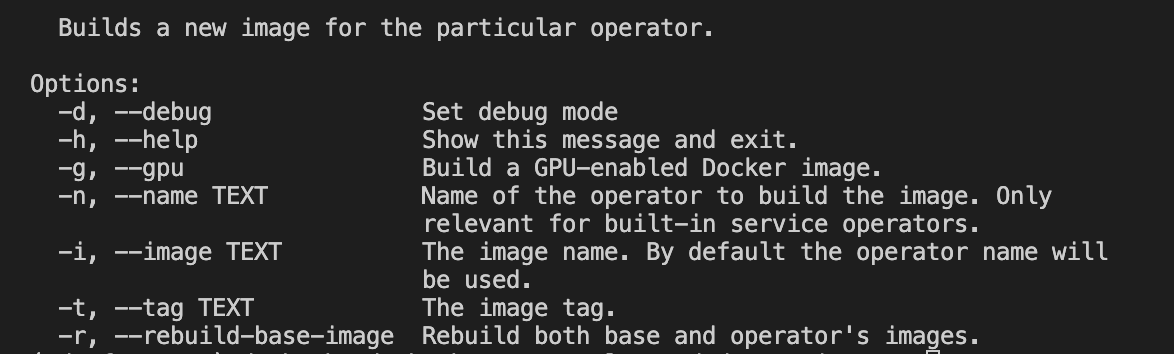
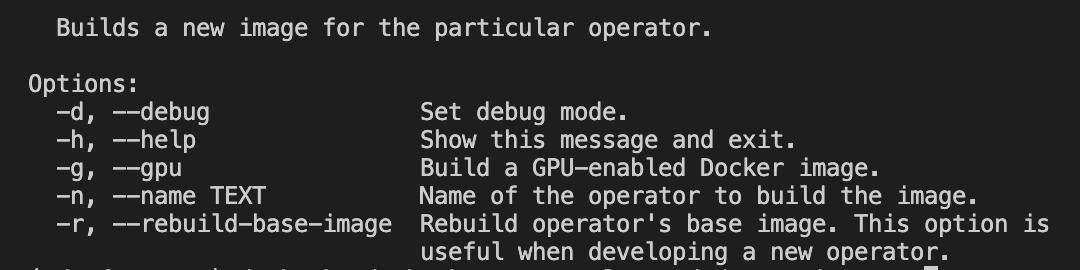
Improves the docs to add the publish conda for operators.

Changed region(s): [[0.0, 0.2074, 0.9778, 1.0], [0.0306, 0.0296, 0.6417, 0.1481]]

diff --git a/docs/source/user_guide/operators/common/explore.rst b/docs/source/user_guide/operators/common/explore.rst
@@ -38,6 +38,8 @@ This command provides a concise overview of all available commands.
 
 - ``ads opctl operator build-conda``: Build a new Conda environment tailored to a particular operator using this command.
 
+- ``ads opctl operator publish-conda``: Publish the operator's Conda environment to the Object Storage bucket with this command.
+
 - ``ads opctl operator build-image``: Create a new image customized for the operator using this command.
 
 - ``ads opctl operator publish-image``: Publish the operator's image to the container registry with this command.
@@ -172,7 +174,11 @@ In order to run an operator within a local container or utilize it with the OCI 
 .. figure:: figures/build_operator_image.png
    :align: center
 
-The fundamental attribute you need to provide is ``--name``, which represents the name of the operator. If you do not specify ``--image`` and ``--tag``, the operator's name and version will be automatically used as the image name and tag.
+The fundamental attribute you need to provide is ``--name``, which represents the name of the operator. The operator's name and version will be automatically used as the image name and tag.
+
+.. code-block:: bash
+
+   ads opctl operator build-image --name <operator-name>
 
 An interesting point to note is that the operator's container can be built to accommodate both CPU and GPU architectures, although this capability depends on the specific operator's requirements.
 
@@ -195,7 +201,7 @@ The only mandatory parameter for this command is the image name that you wish to
 
 .. code-block:: bash
 
-   ads opctl operator publish-image <operator-name>:v1
+   ads opctl operator publish-image --name <operator-name>
 
 While the image name is the only required parameter, you also have the option to provide the ``registry`` parameter if needed. By default, the information about the registry where the container should be published is retrieved from the ADS config generated during the :doc:`Configure Defaults<../../cli/opctl/configure>` step.
 
@@ -232,12 +238,15 @@ To make a locally built Conda environment available in the OCI Object Storage bu
 
 .. code-block:: bash
 
-   ads opctl conda publish <operator-name>_<operator-version>
+   ads opctl operator publish-conda --help
 
-For instance, if you have constructed a Conda environment for the "forecast" operator, the command would appear as follows:
+.. figure:: figures/publish_operator_conda.png
+   :align: center
+
+For instance, if you have constructed a Conda environment for the specific operator, the command would appear as follows:
 
 .. code-block:: bash
 
-   ads opctl conda publish forecast_v1
+   ads opctl operator publish-conda --name <operator-name>
 
 Publishing the Conda environment to OCI Object Storage enables the OCI Data Science Jobs and Data Flow services to access and utilize this environment efficiently. This step is essential to ensure that your operators run seamlessly within the OCI ecosystem.
